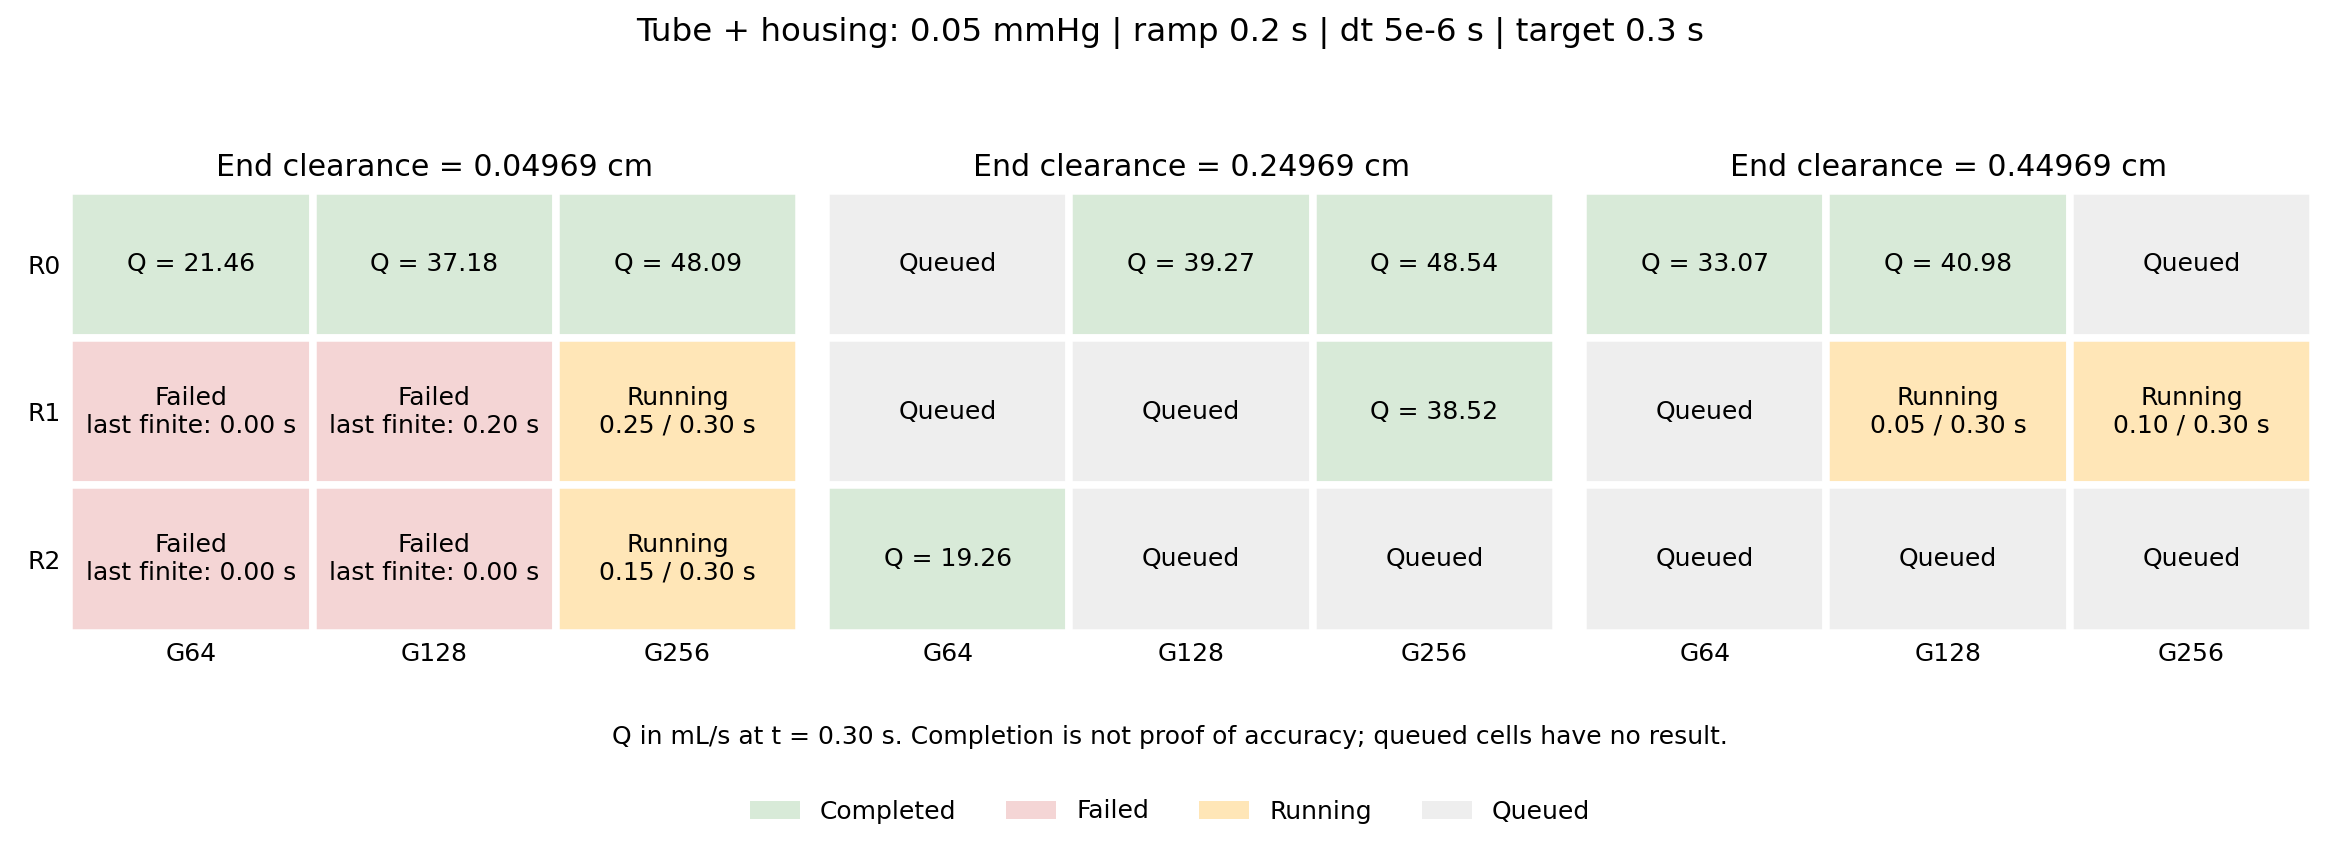
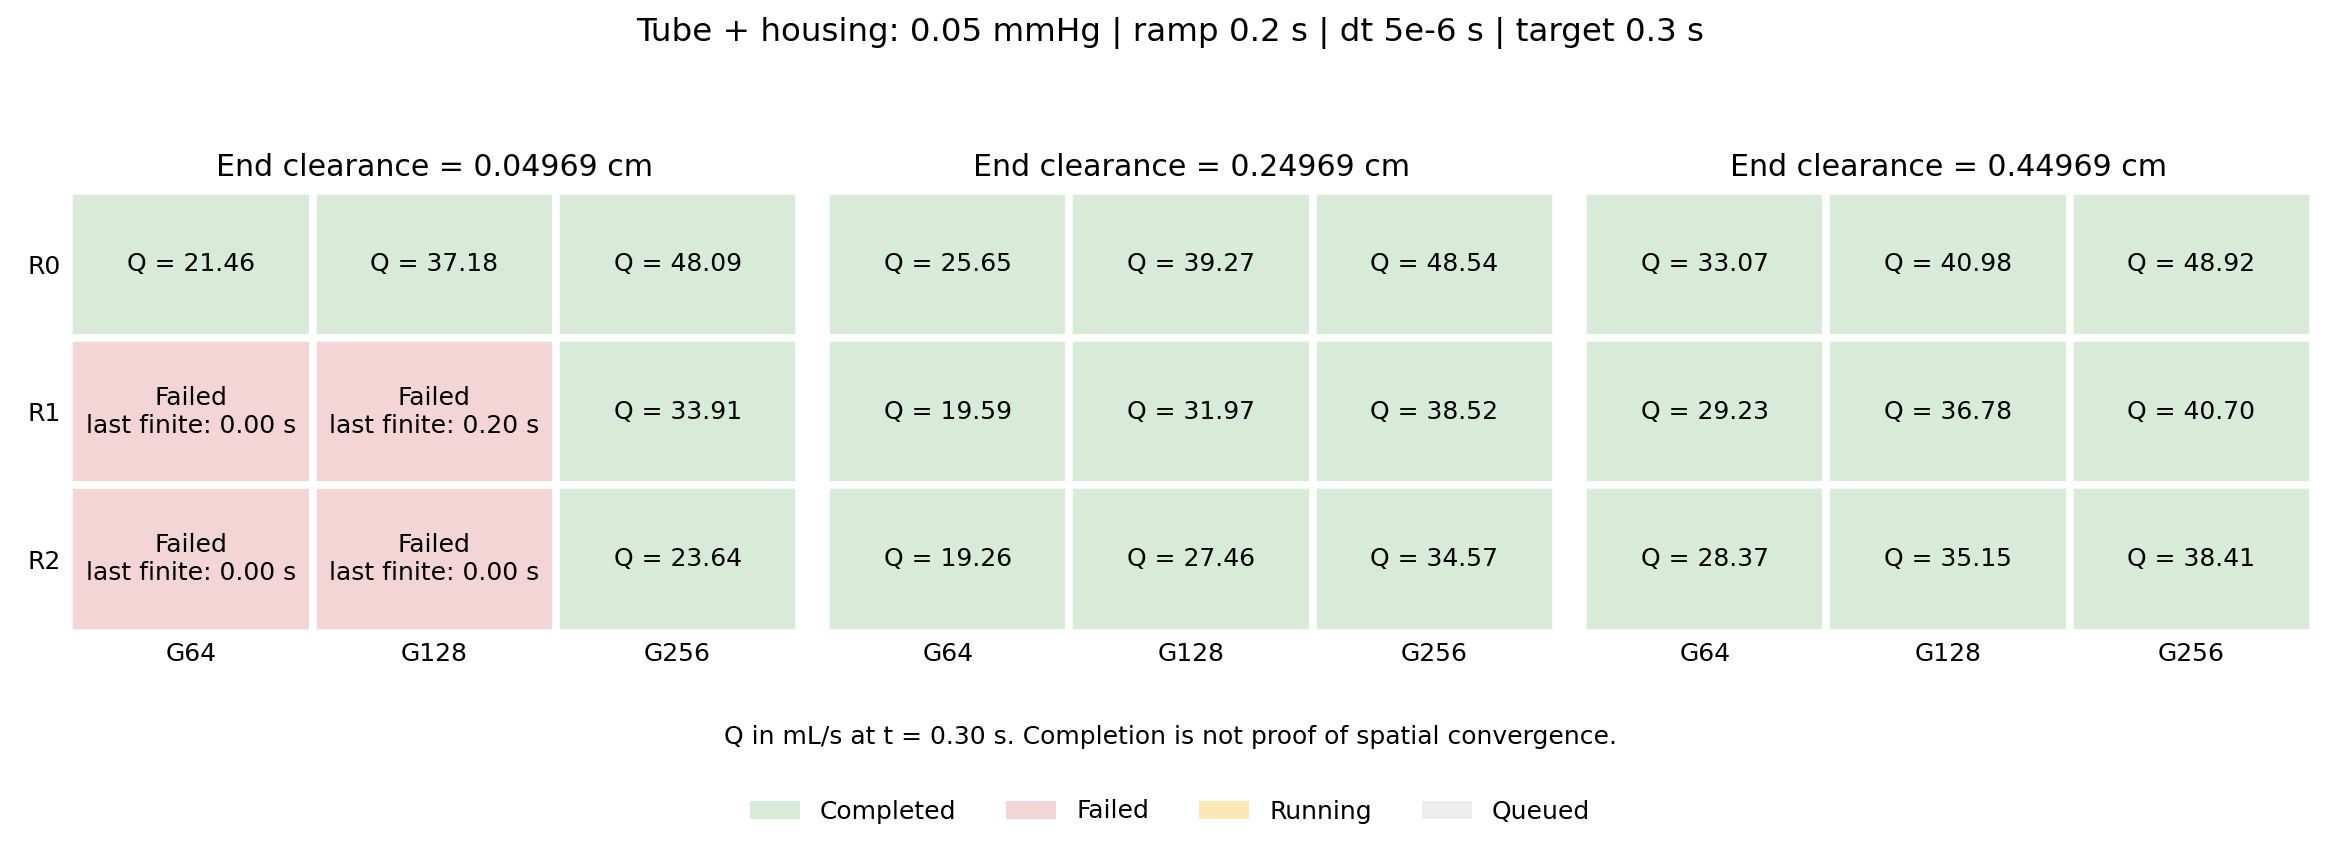
Publish final tube factorial and pressure analysis

diff --git a/content/posts/tube-housing-flow.md b/content/posts/tube-housing-flow.md
@@ -1,8 +1,8 @@
 ---
-title: "管道与 housing disc 流动：G64/R2 数值对照"
-description: "同一压差下的纯管道与管道加 disc 对照：参数、截面、流量、单元翻转及复现方法。"
+title: "管道与 housing disc 流动：压力、网格与端部间距对照"
+description: "管道与 housing 的压力对照、27 组网格和端隙试验：管腔流量、旁路交换、变形、收敛性及复现方法。"
 date: 2026-10-20
-lastmod: 2026-10-21
+lastmod: 2026-10-22
 layout: protected-paper
 academic: true
 comments: false
@@ -10,6 +10,8 @@ searchHidden: true
 build:
   list: never
 ---
+
+**2026-10-22 更新：**第 8 节给出已完成的高压 5 s 长测；第 9 节汇总全部 27 组启动试验及管腔／端隙通量分析。数值完成不等于网格收敛或刚性验证。
 
 第 1–5 节记录早期两组 **0.005 mmHg 恒定目标压差、计算至 5 s** 的 GPU 算例。两组仅相差原 R2 housing disc：纯管道保留管壁；tube+disc 保留管壁和 disc，均不含瓣叶、腱索及乳头肌。
 
@@ -416,32 +418,48 @@ export OPENBLAS_NUM_THREADS=1 OMP_NUM_THREADS=2 DSH_PERF_LEVEL=0
 低压设置通过不保证十倍压力仍稳定。升压后也不能预期流量或射流速度严格增加十倍：本例仍是带 disc 的瞬态流动，存在惯性、局部损失和流固耦合。若不稳定，应先定位失败，再单独检查 dt 等参数；保持所要求的 0.2 s ramp。
 
 
-### 8.1 高压长测：进行中的结果（2026-10-21 快照）
+### 8.1 高压长测最终结果（2026-10-22）
 
-G64/R2、每端 gap=0.34969 cm（2.085Δz），其余材料、IB4 和 tether 系数沿用第 6 节；dt=10⁻⁵ s，ramp=0.2 s。0.3 s 短测已完成，随后从静止重跑至目标 5 s；**本快照仅审计到 3.0 s，尚未完成长测**。
+G64/R2、每端 gap=0.34969 cm（2.085Δz），dt=10⁻⁵ s，ramp=0.2 s；其余材料、IB4 和 tether 系数与第 6 节相同。0.3 s 筛查后从静止重跑，现已完成 **5 s**，耗时约 **9 小时 39 分钟**。下图覆盖全部已保存时刻。
 
-![高压长测：原生出口流量、管壁和 housing 的 J 范围及最大节点位移；曲线只覆盖已审计时间。](/data/tube-housing-20261020/factorial/highpressure_history.png)
+![完成至 5 s 的高压长测：原生孔口流量、管壁和 housing 的 J 范围及最大节点位移。](/data/tube-housing-20261020/factorial/highpressure_history.png)
 
-| 3.0 s 指标 | 管壁 | housing |
+| 5 s 指标 | 管壁 | housing |
 |---|---:|---:|
-| 最小 J | 0.990923 | 0.752825 |
-| 最大 J | 1.002743 | 1.376849 |
-| 最大节点位移（μm） | 13.040 | 183.855 |
+| 最小 J | 0.982157 | 0.707443 |
+| 最大 J | 1.011313 | 1.447137 |
+| 最大节点位移（μm） | 18.722899 | 321.699057 |
 | 非正 J 积分点 | 0 | 0 |
 
-该时刻原生出口流量 **87.99361 mL/s**。housing 局部体积比已明显偏离 1；J 最小值约对应局部体积减少 24.7%，最大值约对应增加 37.7%。它们不是总区域体积变化，也不一定出现在同一位置。没有检测到翻转不代表刚性 housing 假设已经满足。
+5 s 原生出口流量为 **72.86905 mL/s**，名义管腔五截面的平均流量为 **72.70109 mL/s**。每 0.1 s 保存帧中均未检测到非正 J 或管壁穿出；这不是对每个时间步的连续证明。全保存历史中，管壁 J 包络为 **0.979960–1.012974**，housing 为 **0.702554–1.459632**；这些历史包络与上表的最终帧不同。
 
-流量曲线约在 2.7 s 附近达到阶段性峰值，随后回落；同时 J 范围仍在扩大。因此不能将早期流量趋平解释为稳态收敛，也不能把十倍压差理解为整个瞬态响应严格放大十倍。J 和位移采用每 0.1 s 保存帧的分量极值；曲线不是同一个材料积分点的轨迹。
+housing 最终最大位移为 **0.322 mm**，局部 J 对应体积减少约 **29.3%** 或增加约 **44.7%**；极值不一定在同一位置。这组算例数值上完成，但 **housing 的近刚性／局部保体积要求尚未满足**。J 极值与最大位移是分量的全局极值，不是同一材料点的轨迹。
 
-## 9. 流体网格 × 固体网格 × 管端间距：27 组全因子试验
+复现这组 5 s 长测时，沿用第 8 节命令，将 `--T` 改为 `5`、`--every` 与 `--probe-every` 改为 `10000`，并指定新的空输出目录；`--dt 1e-5` 和 `--pmax 66.661` 保持不变。网格仍为第 6 节的 2.085Δz 几何。
 
-本节为 **2026-10-21 收集快照**，不是实时进度页。共 27 组：G64/G128/G256 × R0/R1/R2 × 三个物理间距。当前 **13 组已结束：9 组完成目标时间、4 组因非有限几何停止；4 组运行中、10 组排队**。
+### 8.2 十倍压差没有产生十倍的 5 s 流量
 
-### 9.1 控制变量
+![相同几何和时间步下，两种压差的出口流量，以及高压／低压流量比。](/data/tube-housing-20261020/factorial/pressure_comparison.png)
 
-三种流体网格分别为 64×64×96、128×128×192、256×256×384；计算域均为 8.6×8.6×16.09938 cm。R0/R1/R2 保留 Q1 管壁和 P1 housing；不同 components 的重叠不合并。
+| 指标（5 s） | 0.005 mmHg | 0.05 mmHg |
+|---|---:|---:|
+| 原生出口流量（mL/s） | 24.82761 | 72.86905 |
+| housing J 范围 | 0.946104–1.070506 | 0.707443–1.447137 |
+| housing 最大位移（μm） | 49.573 | 321.699 |
 
-每个网格组合都测试三个相同的**物理间距**，而不是保持 gap/Δz 相同。保留参考管壁范围 z=±8、±7.8、±7.6 cm，沿全部固体层级共有的轴向层切除，避免 R0/R1/R2 的端点不一致。
+早期流量比接近 10，5 s 时已降至 **2.935**。高压流量在保存的 2.7 s 帧达到 **90.44095 mL/s**，随后回落至 72.86905；不能解释为已达到稳态。惯性、局部流动损失和固体变形均可能参与这种非线性响应；当前对照不能将变化单独归因于某一机制。
+
+高压 5 s 的每端名义间隙圆柱总交换（向外＋向内绝对值）取两端较大值，约为管腔流量的 **0.01675%**；低压对应值为 **0.000406%**。这是插值采样诊断，不是真实固体表面的泄漏率。小间隙交换也不能抵消 housing 内部明显的局部体积失真。
+
+## 9. 流体网格 × 固体网格 × 管端间距：27 组最终结果
+
+**2026-10-22：全部队列结束。23 组完成至 0.3 s，4 组因非有限几何停止。** 本节是启动阶段的空间分辨率筛查，不是 5 s 长期验证。
+
+### 9.1 试验设计与控制变量
+
+流体网格为 G64=64×64×96、G128=128×128×192、G256=256×256×384，计算域均为 8.6×8.6×16.09938 cm。固体 R0/R1/R2 均保留 Q1 管壁和 P1 housing；不同 components 的重叠不合并。
+
+三种物理间距在各网格上相同：保留参考管壁范围 z=±8、±7.8、±7.6 cm，沿各 R 层级共有的完整轴向层切除。固定物理间距可以避免比较 G 时又同时移动管端，但切端同时缩短管道，所以**管长和间距影响未被独立分离**；不同 R 层级对曲面的离散也并非完全一致。
 
 | 每端 gap（cm） | G64：gap/Δz | G128：gap/Δz | G256：gap/Δz |
 |---|---:|---:|---:|
@@ -449,50 +467,111 @@ G64/R2、每端 gap=0.34969 cm（2.085Δz），其余材料、IB4 和 tether 系
 | 0.24969 | 1.489 | 2.978 | 5.956 |
 | 0.44969 | 2.681 | 5.363 | 10.726 |
 
-所有算例从静止开始：压差 0.05 mmHg，线性 ramp=0.2 s，ν=0.04 cm²/s，dt=5×10⁻⁶ s，目标 T=0.3 s；IB4、Sarah modified 应力 C10=502、βs=5×10⁶，两区域 tether=5×10⁸，无固体黏性。每 0.05 s 审计 J、位移和管壁是否穿出计算域。非有限值、J≤0.1 或管壁穿出触发停止。
+所有算例从静止开始：压差 0.05 mmHg，线性 ramp=0.2 s，ν=0.04 cm²/s，dt=5×10⁻⁶ s，目标 T=0.3 s；IB4、Sarah modified 应力 C10=502、βs=5×10⁶，两区域 tether=5×10⁸，无固体黏性。每 0.05 s 审计；非有限值、J≤0.1 或管壁穿出轴向域触发停止。本节与第 8 节的间距、dt 和时长不同。
 
-本节与第 8.1 节的 dt、gap 和目标时长不同，不能把两者直接当作同一控制试验。切去端层同时缩短管道，故本试验测得的是间距与管长变化的合并效应；不同 R 层级的曲面离散也并非完全相同。
+![全部 27 组最终状态；绿色为完成至 0.3 s，红色为失败；数值是原生孔口流量。](/data/tube-housing-20261020/factorial/factorial_progress.png)
 
-### 9.2 已获得的结果
+| 失败算例 | 每端 gap（cm） | 最后有限审计时间（s） |
+|---|---:|---:|
+| G64/R1 | 0.04969 | 0.00 |
+| G64/R2 | 0.04969 | 0.00 |
+| G128/R1 | 0.04969 | 0.20 |
+| G128/R2 | 0.04969 | 0.00 |
 
-![27 组试验矩阵：绿色完成 0.3 s，红色非有限几何停止，黄色运行中，灰色排队；绿色数值为原生出口流量。](/data/tube-housing-20261020/factorial/factorial_progress.png)
+失败均集中于最小物理间距，但这并不能证明任意较大间距都能长期稳定。“最后有限审计时间=0”只表示初始状态有限，随后非零保存帧失败，**不是 t=0 就发生失稳**。没有逐步保存首次失败时刻。固体更细而失败、R0 却能完成，说明“能完成”不能单独评价耦合精度；也仍需时间步对照才能定位失稳机制。
 
-下表仅列已完成目标时间的算例；J 极值为 **0.3 s 最后一帧**，不是所有保存时刻的包络。
+### 9.2 区分孔口流量、管腔流量与端隙交换
 
-| 流体 / 固体 | gap（cm） | Qout（mL/s） | 管壁 J 范围 | housing J 范围 |
-|---|---:|---:|---|---|
-| G128 / R0 | 0.04969 | 37.17516 | 0.999999–1.000001 | 0.999981–1.000019 |
-| G128 / R0 | 0.24969 | 39.26500 | 0.999999–1.000001 | 0.999981–1.000019 |
-| G128 / R0 | 0.44969 | 40.97819 | 0.999999–1.000001 | 0.999982–1.000019 |
-| G256 / R0 | 0.04969 | 48.08971 | 1.000000–1.000000 | 0.999997–1.000003 |
-| G256 / R0 | 0.24969 | 48.53655 | 1.000000–1.000000 | 0.999997–1.000003 |
-| G256 / R1 | 0.24969 | 38.51907 | 0.999998–1.000001 | 0.999967–1.000048 |
-| G64 / R0 | 0.04969 | 21.45980 | 0.974769–1.024346 | 0.987951–1.021612 |
-| G64 / R0 | 0.44969 | 33.06961 | 0.999930–1.000078 | 0.998578–1.001748 |
-| G64 / R2 | 0.24969 | 19.26448 | 0.999449–1.000546 | 0.980475–1.015089 |
+定义名义管腔流量为 r≤3.5 cm 圆盘的轴向速度积分，取五个轴向截面平均，记为 $Q_\mathrm{lumen}$。截面位置为管端内半个 Δz、域长的 1/4、1/2、3/4 和另一管端内半个 Δz。原生边界孔口流量记为 $Q_\mathrm{boundary}$。
 
-| 停止算例（每端 gap=0.04969 cm） | 最后有限审计时间（s） | 停止原因 |
-|---|---:|---|
-| G128 / R1 | 0.20 | 非有限几何 |
-| G128 / R2 | 0.00 | 非有限几何 |
-| G64 / R1 | 0.00 | 非有限几何 |
-| G64 / R2 | 0.00 | 非有限几何 |
+对每端 gap 区间的名义 r=3.5 cm 圆柱面，分别积算向外和向内绝对通量。以下交换指标取两端较大值，**不相加两端，以免将同一旁路重复计数**：
 
-“最后有限审计时间=0”表示初始状态通过，但随后非零保存帧的几何检查失败，**不是 t=0 就失稳**。保存间隔为 0.05 s，没有记录首次非有限的精确时间步。
+$$
+E_\mathrm{gap}=100\frac{\max_{\mathrm{in,out}}\left(Q_\mathrm{radial}^{+}+|Q_\mathrm{radial}^{-}|\right)}{Q_\mathrm{lumen}}\%.
+$$
 
-目前能确认：
+正方向为离开名义管腔、进入域内管外区域。该指标是总交换而不是有符号净交换，也**不是入口流量中绕流的精确百分比或穿真实固体表面的泄漏率**。
 
-- G64/R2 在 0.04969 cm 间距失败，而在 0.24969 cm 间距完成短测；固体加密本身不能保证稳定。
-- 固定 R0 和最小间距，G64/G128/G256 的出口流量仍明显不同，尚不能声称空间收敛。
-- R0 的 J 接近 1 不代表它的耦合精度最好；必须结合 solid/fluid 尺寸比、作用点间距和速度／通量比较判断。尚未完成全部组合，不能选出最佳网格。
+![实线为平均采样管腔流量，虚线为原生孔口流量；失败算例不连线补值。](/data/tube-housing-20261020/factorial/flow_resolution.png)
 
-本节流量为求解器原生孔口通量，**不是 gap 流量**。这些新试验的径向间隙交换尚未汇总，不应把第 7 节低压扫描的百分比直接套用。完成 0.3 s 只说明通过这一段启动短测，仍需较长时间和更小 dt 的对照。
+![各组端隙总交换与管腔流量之比；颜色采用对数刻度。](/data/tube-housing-20261020/factorial/gap_exchange.png)
 
-### 9.3 Git commit 与复现命令
+| 流体／固体 | gap（cm） | 孔口 Q（mL/s） | 管腔 Q（mL/s） | 端隙交换／管腔 Q（%） |
+|---|---:|---:|---:|---:|
+| G64/R0 | 0.04969 | 21.45980 | 21.07089 | 0.40522 |
+| G128/R0 | 0.04969 | 37.17516 | 28.09698 | 0.26391 |
+| G256/R0 | 0.04969 | 48.08971 | 35.05218 | 1.06232 |
+| G256/R1 | 0.04969 | 33.91301 | 27.12415 | 0.29515 |
+| G256/R2 | 0.04969 | 23.64118 | 23.54869 | 0.01682 |
+| G64/R0 | 0.24969 | 25.64667 | 21.07696 | 3.82479 |
+| G64/R1 | 0.24969 | 19.58679 | 19.44431 | 0.00263 |
+| G64/R2 | 0.24969 | 19.26448 | 19.11648 | 0.00315 |
+| G128/R0 | 0.24969 | 39.26500 | 26.75974 | 16.92030 |
+| G128/R1 | 0.24969 | 31.96740 | 22.64690 | 28.30553 |
+| G128/R2 | 0.24969 | 27.45844 | 21.94122 | 11.37738 |
+| G256/R0 | 0.24969 | 48.53655 | 33.02807 | 17.43822 |
+| G256/R1 | 0.24969 | 38.51907 | 25.90662 | 31.98539 |
+| G256/R2 | 0.24969 | 34.57343 | 23.47260 | 43.28746 |
+| G64/R0 | 0.44969 | 33.06961 | 21.03731 | 32.00185 |
+| G64/R1 | 0.44969 | 29.23071 | 19.44182 | 22.32377 |
+| G64/R2 | 0.44969 | 28.36990 | 19.11396 | 21.37831 |
+| G128/R0 | 0.44969 | 40.97819 | 25.83225 | 37.70402 |
+| G128/R1 | 0.44969 | 36.78347 | 22.54486 | 53.39394 |
+| G128/R2 | 0.44969 | 35.15046 | 21.83513 | 51.07575 |
+| G256/R0 | 0.44969 | 48.92462 | 31.64523 | 30.99000 |
+| G256/R1 | 0.44969 | 40.69515 | 25.26050 | 51.83066 |
+| G256/R2 | 0.44969 | 38.41492 | 23.33815 | 61.38062 |
 
-运行与绘图脚本：[`dddfdeb125b7059603b407604365e8e36a49ded2`](https://github.com/mapengfei-glasgow/fdm-3d-v1-workspace/commit/dddfdeb125b7059603b407604365e8e36a49ded2)。仍需已有生成的 `glamv_hex`、`glamv_hex_r1`、`glamv_hex_r2` 输入数据；Git 提交本身不包含全部网格。
+**最大间距出现明显的名义管腔径向交换。** 例如 G256/R2、gap=0.44969 cm：孔口 Q=38.41492，管腔 Q=23.33815 mL/s，差值约占孔口 Q 的 **39.2%**。入口 gap 的有符号径向净通量为 **+13.69924 mL/s**，出口为 **−14.32510 mL/s**；方向符合入口处向管外流出、出口处重新流入管腔的旁路特征。总交换指标为管腔流量的 **61.38%**，这个分母不同，不能称为“61.38% 的入口流量泄漏”。两种流量离散和未计入的其他面使上述差值不是严格闭合的旁路守恒预算。
 
-以下复现已完成的 G64/R2、gap=0.24969 cm 组；构建仍见第 5 节。更换源网格、管壁截取范围与 nx/ny/nz，可构成其余组合。
+**孔口流量增加不等于管腔有效流量增加。** 对 G64/R2，将 gap 从 0.24969 增至 0.44969 cm，孔口 Q 从 19.26448 升至 28.36990，但管腔 Q 几乎不变：19.11648 → 19.11396 mL/s；端隙交换指标却从 **0.00315%** 升至 **21.38%**。因此不能仅凭孔口流量选择较大 gap。
+
+### 9.3 网格收敛与 MFAC
+
+以中间间距 0.24969 cm 为例，R1 相对 R2 的管腔流量差，采用 $100(Q_{R1}/Q_{R2}-1)$：
+
+| 流体网格 | R1→R2 管腔流量差 |
+|---|---:|
+| G64 | 1.71% |
+| G128 | 3.22% |
+| G256 | 10.37% |
+
+G64 上 R1 与 R2 接近，不能外推为 G256 上固体已经足够细。固定 R2，同一间距下 G64/G128/G256 的管腔 Q 为 **19.11648 / 21.94122 / 23.47260 mL/s**；最后一级仍相差约 **7.0%**（以 G128 为分母）。因此本组**尚未达到联合空间收敛**。
+
+下面是中间间距的参考网格边长指标：$\|\Delta\mathbf{x}/\mathbf{h}\|_2$，按单元边出现次数统计，h 分别为 dx、dy、dz；它不是相邻独立节点距离或 IB 积分作用点间距。不同单元可能重复计入共享边。
+
+| 流体／固体 | 管壁：中位数 | housing：中位数 | housing：最大值 |
+|---|---:|---:|---:|
+| G64/R0 | 1.625 | 1.202 | 2.366 |
+| G64/R1 | 0.813 | 0.607 | 1.570 |
+| G64/R2 | 0.406 | 0.304 | 0.785 |
+| G128/R0 | 3.250 | 2.404 | 4.731 |
+| G128/R1 | 1.625 | 1.213 | 3.139 |
+| G128/R2 | 0.813 | 0.608 | 1.570 |
+| G256/R0 | 6.500 | 4.808 | 9.462 |
+| G256/R1 | 3.250 | 2.426 | 6.278 |
+| G256/R2 | 1.625 | 1.216 | 3.139 |
+
+G256/R2 的管壁边指标中位数为 **1.625**，housing 最大值约 **3.139**，与 G64/R0 不是同等的精细固体分辨率。对 G256 继续比较 R3 有依据，但当前结果尚不能确定一个普遍适用的 MFAC 阈值。判断固体是否足够细，仍应比较作用点密度、速度场、管腔流量、变形和体积误差，而不是只看 J 接近 1。
+
+### 9.4 采样误差与证据范围
+
+通量后处理使用求解器已保存的节点平均速度，做三线性插值；NumPy 实现已与 VTK 在本机最终高压场上交叉核对。默认圆盘为 48 个径向、128 个角向中点，gap 圆柱面为 24 个轴向、128 个角向中点。它不同于原生 MAC 面通量。
+
+将上述三个方向采样数各加倍，在三个代表组中，管腔 Q 变化均小于 **0.026%**。但很小的径向交换对采样更敏感：G256/R2、最小间距组的总交换变化约 **20.6%**，其量级仍很小；最大间距组的大交换仅变化约 **0.074%**。这检验了后处理积分敏感性，**不是流体／固体空间收敛试验**；微小交换指标不应解读到多位有效数字。
+
+### 9.5 当前可采用的结论与下一步
+
+- **间距同时受稳定性与旁路约束，不能越大越好。** G64/R2、gap=0.24969 cm（1.489Δz）完成短测，端隙交换较小；G256/R2、gap=0.04969 cm（1.185Δz）也完成短测，交换约 0.017%。两者都不是经过长期／时间步收敛验证的最优值。
+- **G128 的这三个离散间距没有同时给出理想结果。** R2 的最小 gap（0.593Δz）失败，中间 gap（2.978Δz）虽完成，但交换指标约 11.38%。下一步适合补测 R2 的 0.09969 和 0.14969 cm，即约 1.189Δz、1.785Δz，而不是直接接受当前较大间距。
+- **G256/R2 尚不能视为收敛基准。** 应在选定间距后比较更细固体及减半 dt，并延长筛选出的算例；本次没有新增这些物理算例。
+- **高压长测的主要未解决项是 housing 局部变形／体积失真。** 即使所有保存帧 J>0，也不能宣称刚性 housing 流动已得到验证。
+
+### 9.6 Git commit 与复现
+
+最终通量分析、采样核查和绘图脚本：[`3a069cd57034d224a76c07eb8599d6f223b05aee`](https://github.com/mapengfei-glasgow/fdm-3d-v1-workspace/commit/3a069cd57034d224a76c07eb8599d6f223b05aee)；运行队列与网格提取脚本见 [`dddfdeb`](https://github.com/mapengfei-glasgow/fdm-3d-v1-workspace/commit/dddfdeb125b7059603b407604365e8e36a49ded2)。
+
+仍需已有生成的 `glamv_hex`、`glamv_hex_r1`、`glamv_hex_r2` 输入网格；Git 提交不包含全部网格文件。求解器构建见第 5 节。以下复现 G64/R2、gap=0.24969 cm；其余组合更换源数据、截取范围和 nx/ny/nz。
 
 ```bash
 OPENBLAS_NUM_THREADS=1 python3 scripts/simulations/prepare_glamv_tube_housing.py \
@@ -511,9 +590,16 @@ export OPENBLAS_NUM_THREADS=1 OMP_NUM_THREADS=2 DSH_PERF_LEVEL=0
   --out runs/reproduce_factorial/case/
 ```
 
-上面的直接调用不包含自动停止监控；分布式试验使用提交中的 `run_remote_factorial.py` 和 `queue_housing_stability.py` 执行几何审计。已有同名本地结果目录和收集的 `LATEST_RESULTS.json` 时，可重画本页两图：
+直接调用不含几何停止监控；队列脚本使用 `queue_housing_stability.py` 做保存帧审计。已有对应结果及收集文件时，重算通量和图表：
 
 ```bash
+OPENBLAS_NUM_THREADS=1 python3 scripts/diagnostics/measure_tube_gap_flux_numpy.py \
+  runs/reproduce_factorial/case/fluid_060000.vti --clearance 0.24969 \
+  --out /tmp/reproduce-gap-flux.json
+
+# 以下两条按原试验目录命名读取已有结果；采集脚本和采样加密脚本亦在同一提交。
+OPENBLAS_NUM_THREADS=1 MPLCONFIGDIR=/tmp/mv-mpl \
+  python3 scripts/diagnostics/analyze_tube_factorial_final.py
 OPENBLAS_NUM_THREADS=1 MPLCONFIGDIR=/tmp/mv-mpl \
   python3 scripts/visualization/plot_tube_factorial_progress.py
 ```
